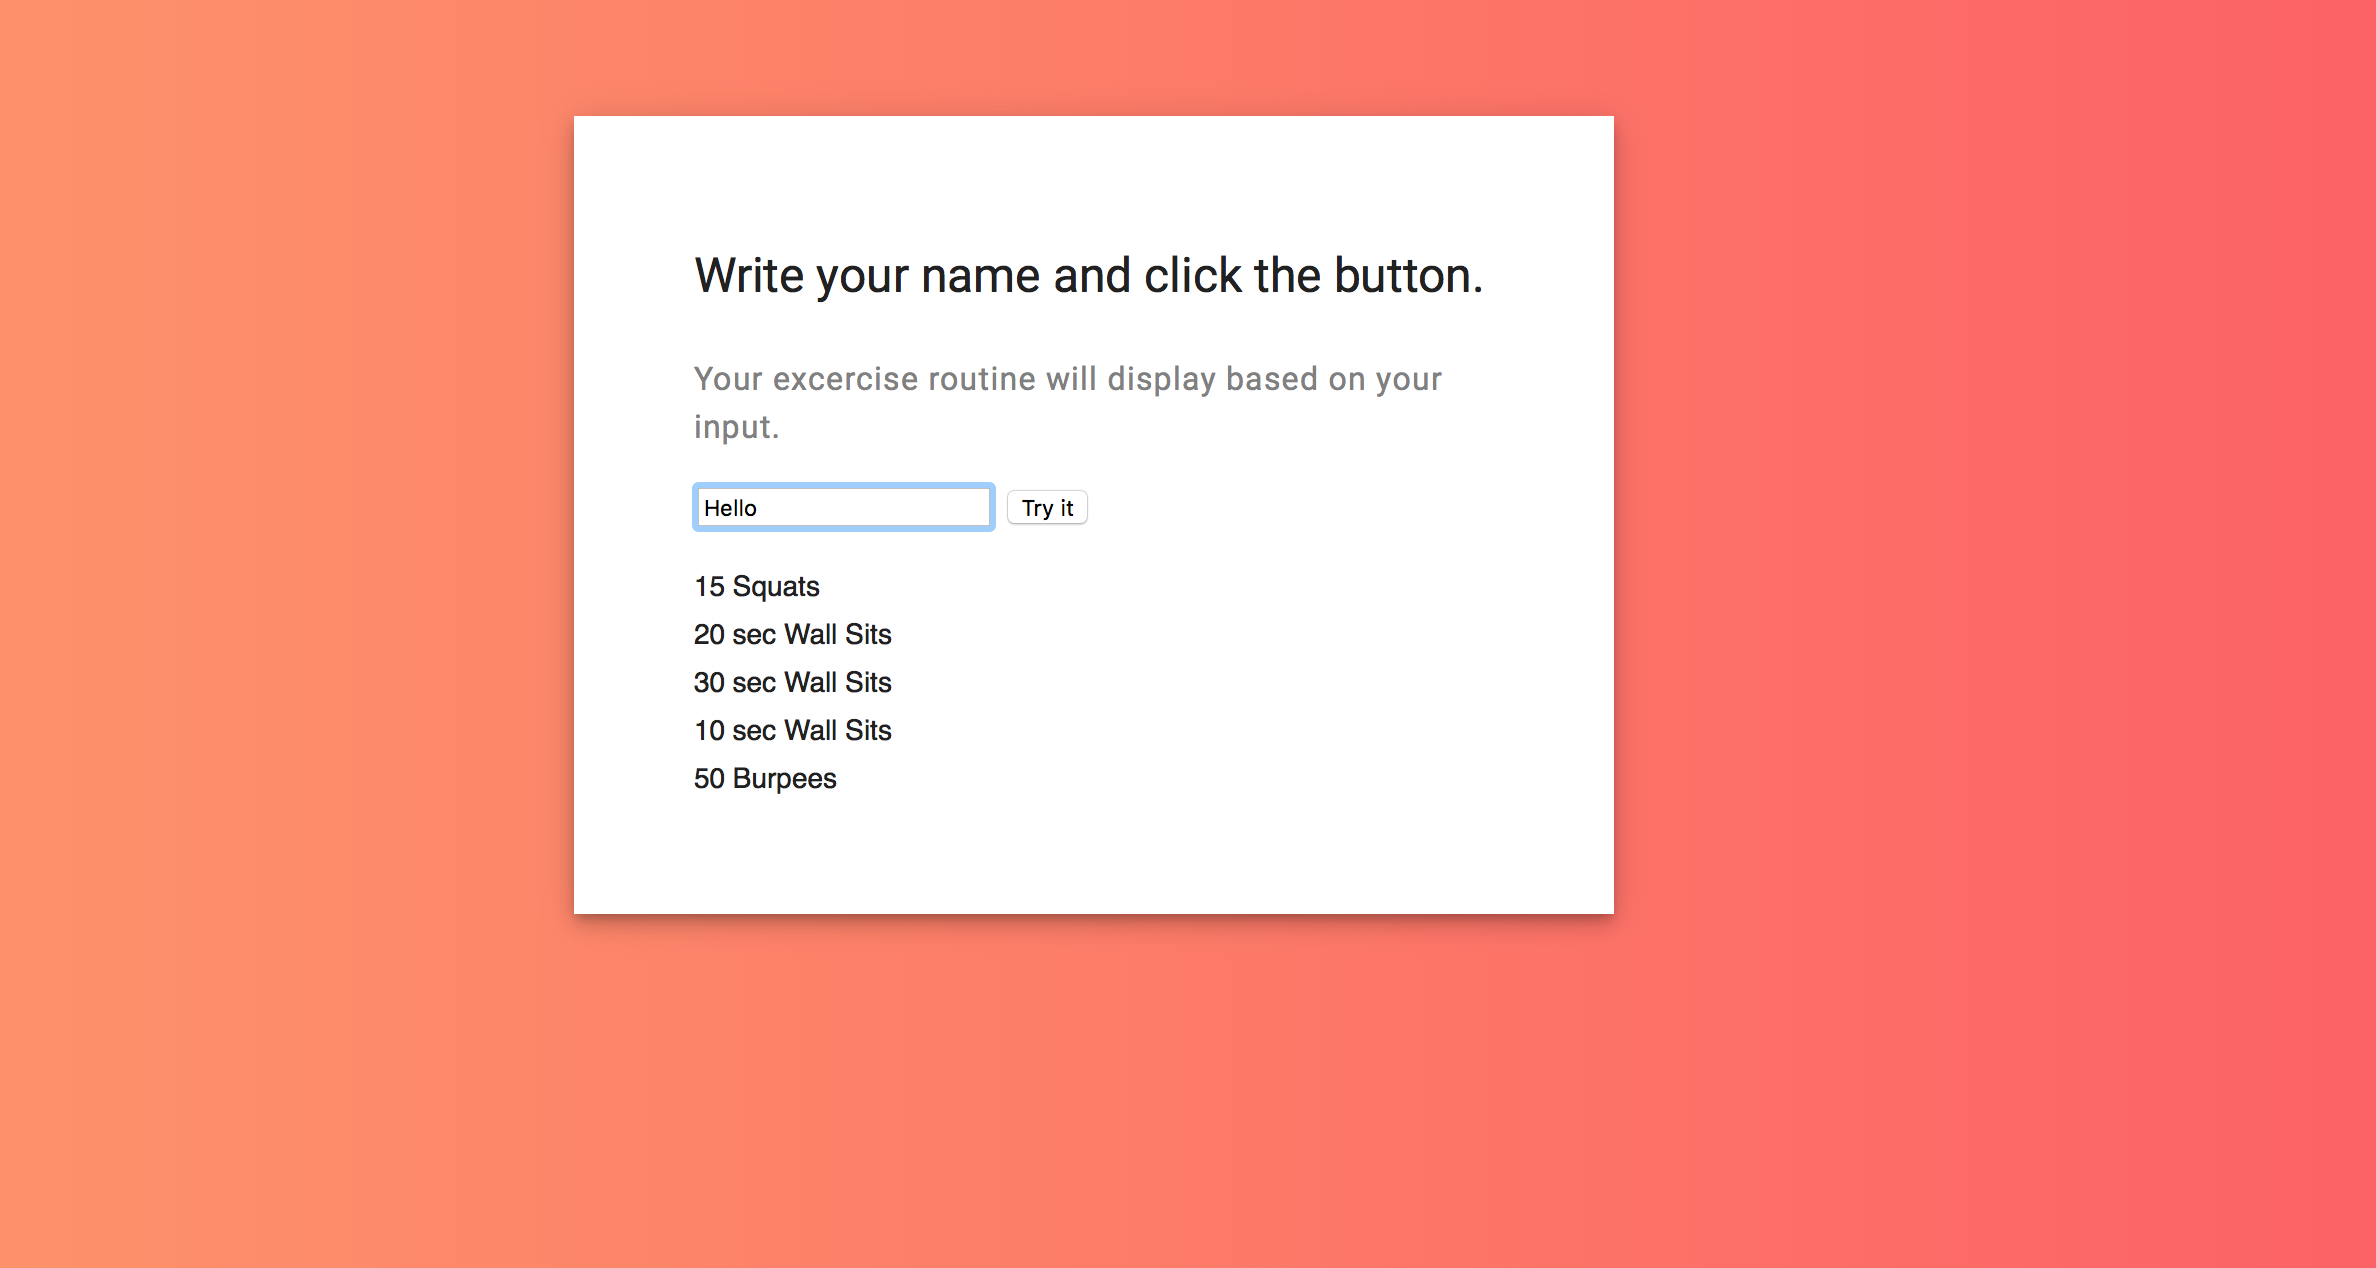
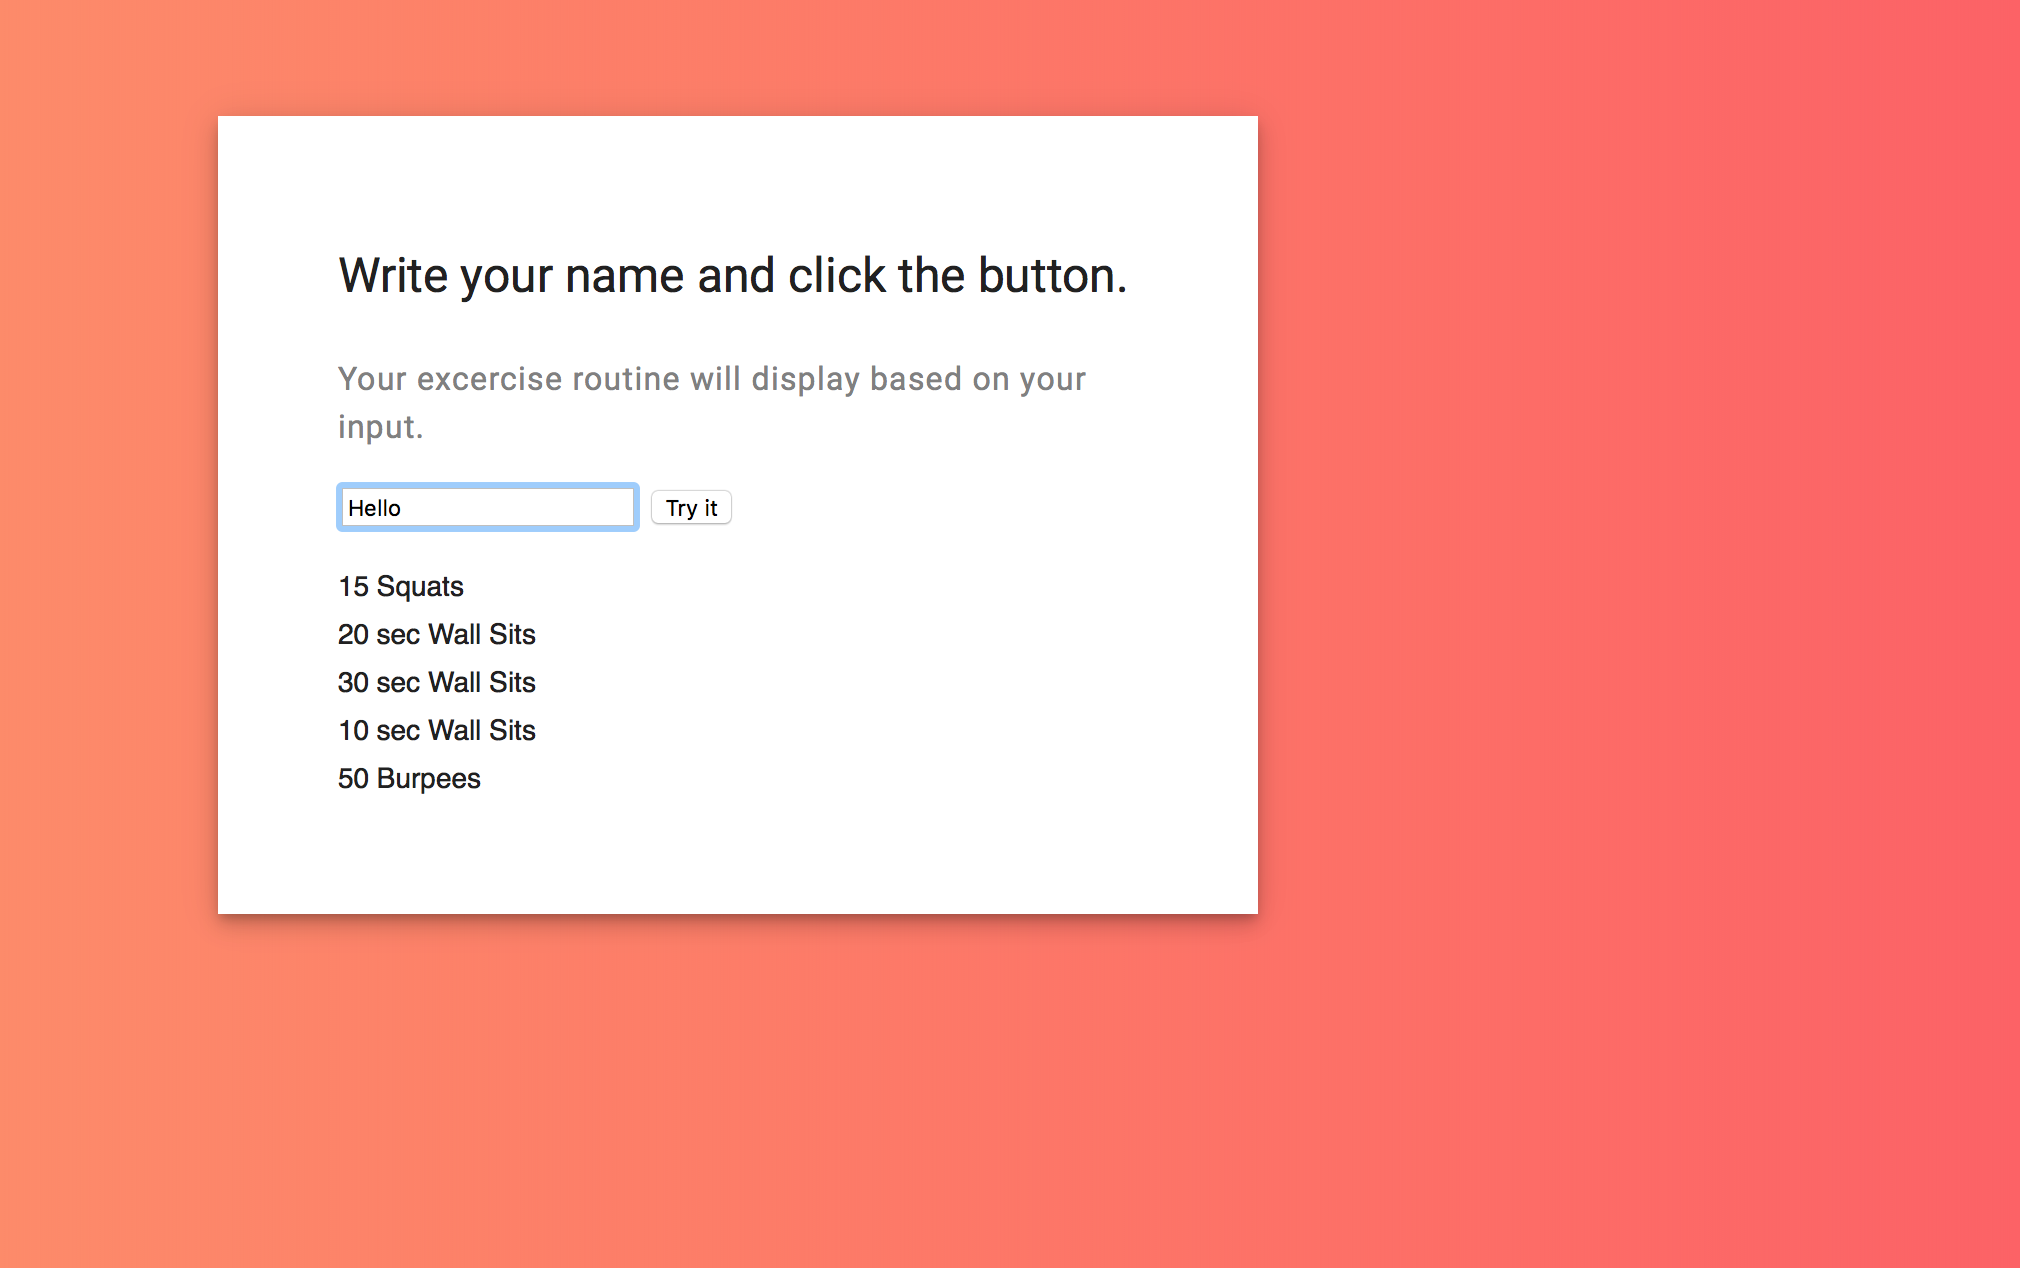
form

Changed region(s): [[0.0936, 0.0923, 0.6861, 0.7382]]

diff --git a/index.html b/index.html
@@ -56,7 +56,7 @@
 
 		<!-- Feature 2 -->
 			<article class="container box style1 left">
-				<a href="#" class="image fit"><img src="images/fulls/" alt="" /></a>
+				<a href="#" class="image fit"><img src="images/thumbs/Screen Shot 2019-06-04 at 4.58.59 PM.png" alt="" /></a>
 				<div class="inner">
 					<header>
 						<h2>Excercise your name<br />
@@ -70,9 +70,9 @@
 		<!-- Portfolio -->
 			<article class="container box style2">
 				<header>
-					<h2>Magnis parturient</h2>
-					<p>Justo phasellus et aenean dignissim<br />
-					placerat cubilia purus lectus.</p>
+					<h2>Other projects</h2>
+					<p>Projects I've started<br />
+					and are still ongoing</p>
 				</header>
 				<div class="inner gallery">
 					<div class="row gtr-0">
@@ -93,8 +93,8 @@
 		<!-- Contact -->
 			<article class="container box style3">
 				<header>
-					<h2>Nisl sed ultricies</h2>
-					<p>Diam dignissim lectus eu ornare volutpat orci.</p>
+					<h2>Got some questions?</h2>
+					<p>Hit me up, and let's link up.</p>
 				</header>
 				<form method="post" action="#">
 					<div class="row gtr-50">
